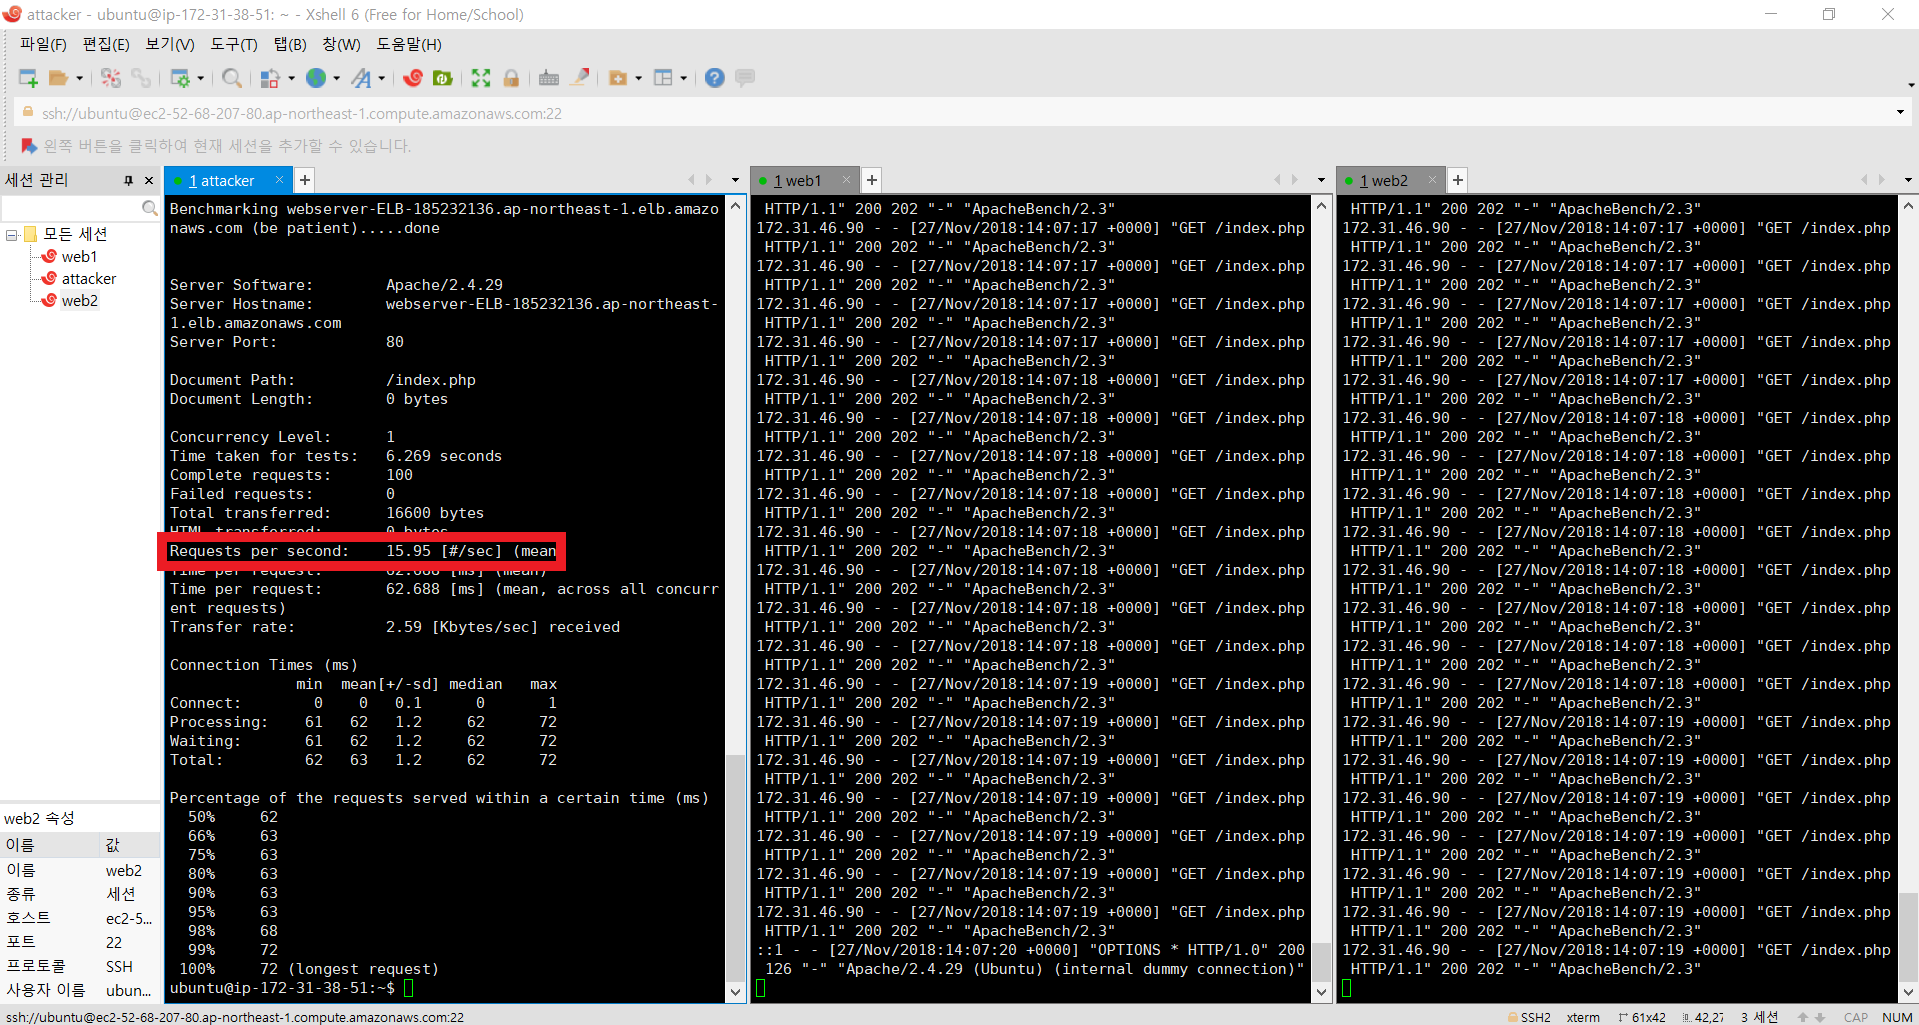
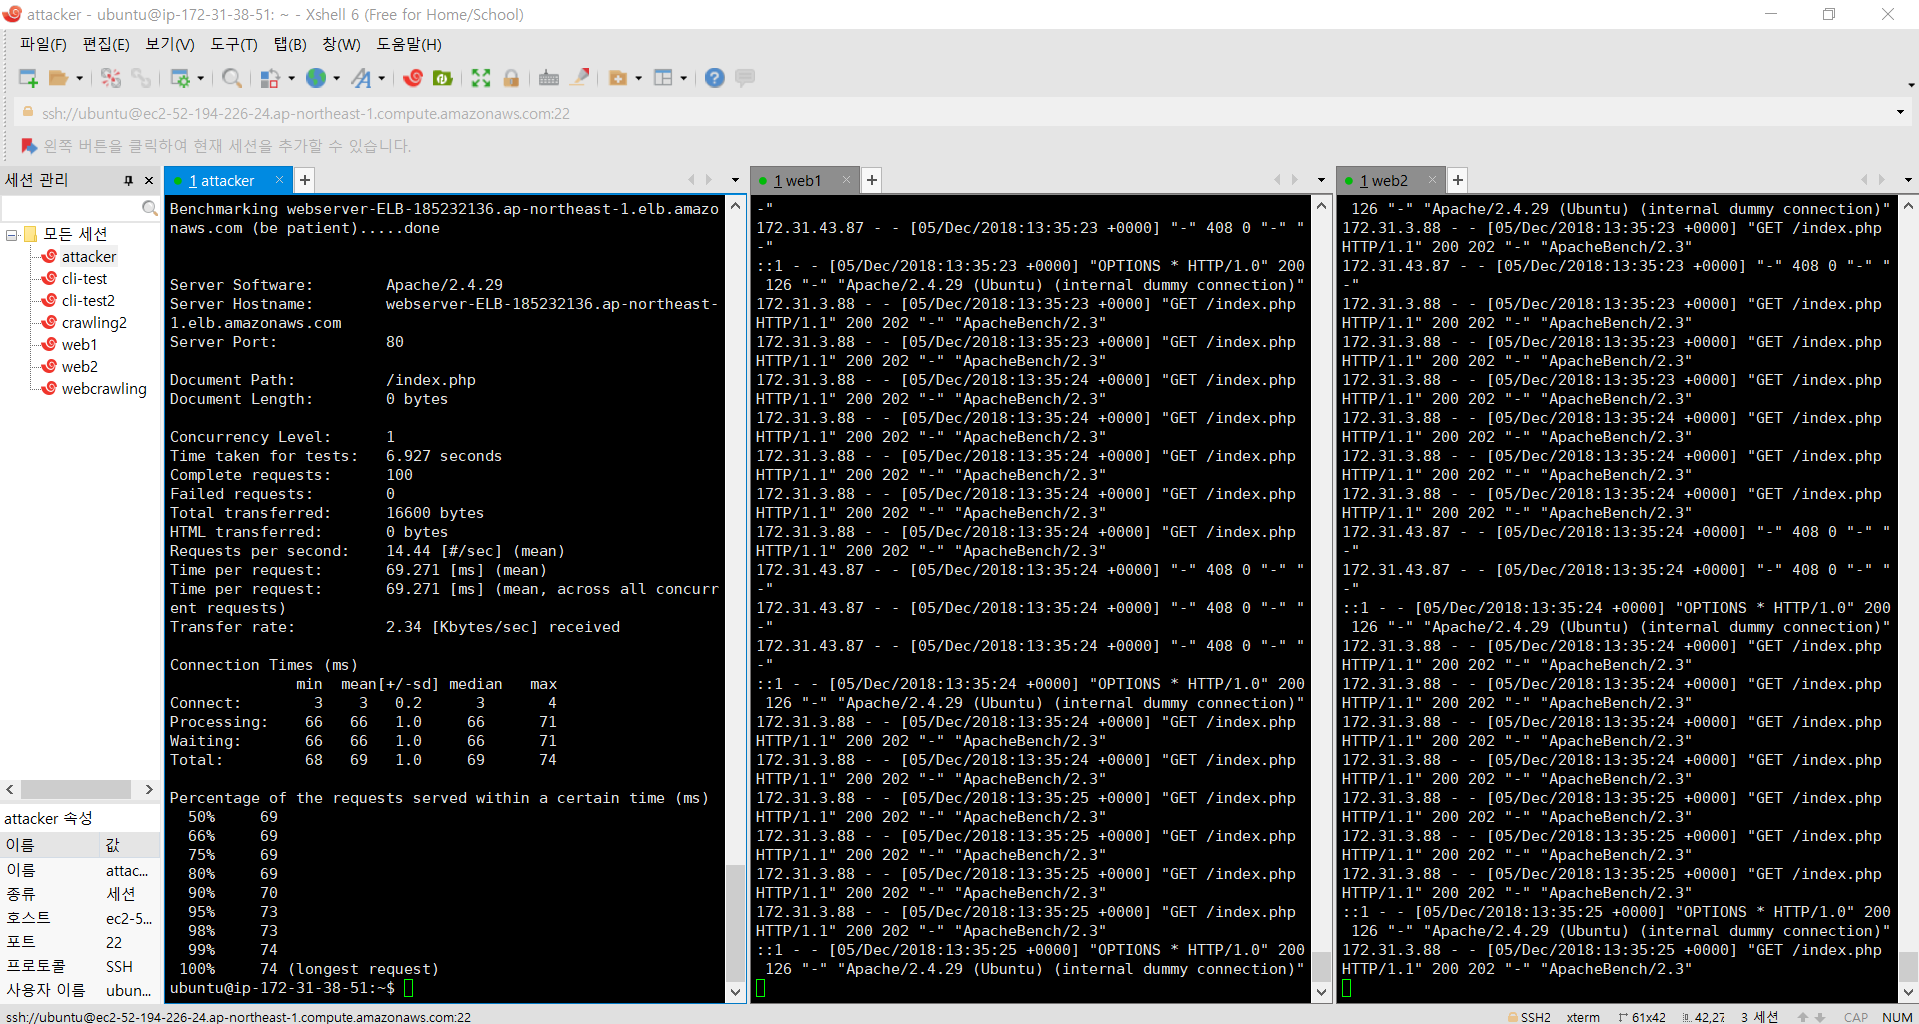
df

diff --git a/hands_on/load_balance_full_understand/step3.md b/hands_on/load_balance_full_understand/step3.md
@@ -95,6 +95,10 @@ Scalue out 이라는 용어는 Web server에서만 한정해서 사용하는 용
 
 ## Load Balancer 만들기
 
+실습 내용:
+
+우선 한개의 web1을 만들어 attack을 해봅시다. 과연 얼마나 느려지는지, 그리고 나서 web2를 만들어 Scale-out 시켜 ELB를 붙여 다시 attack 해봅시다. 이 둘의 차이는 얼마나 날까요?
+
 
 
 1. Ubuntu instance를 2개 만듭니다. (attack, web1)
@@ -151,7 +155,7 @@ Scalue out 이라는 용어는 Web server에서만 한정해서 사용하는 용
 
    - attack $**Ctrl+C**  // 너무 오래 걸리면 이렇게
 
-     > 분석: Time per request를 확인하면 각각 94.374 / 900.764 / 5168.919 ms 가 걸린다. 5000 ms 는 5초이다. 
+     > 분석: Time per request를 확인하면 각각 62.184 /606.798 / 3053.906 ms 가 걸린다. 3000 ms 는 3초이다. 웹페이지를 띄우는데 3초 이상이 걸리면 사용자는 불편함을 느낀다. 
 
 4. web2 를 만들어보자 
 
@@ -188,6 +192,8 @@ Scalue out 이라는 용어는 Web server에서만 한정해서 사용하는 용
    5. **Create a new security grop** 을 클릭하고 name: **elb** 라고 적어주고 Type **HTTP**를 선택해줍니다.
 
       <img src="./image/46.png" width="100%">
+
+      *step4. Configure Health Check는 밑에서 다룰것입니다.*
 
    6. 완성
 
@@ -235,5 +241,26 @@ Scalue out 이라는 용어는 Web server에서만 한정해서 사용하는 용
      <img src="./image/65.png" width="100%">
 
    - 확실히 빠르다. Ctrl+C 가 필요없다.
+
+   > 분석: Time per request를 확인하면 각각 69.271 /303.576 / 1521.300 ms 가 걸린다. 
+
+|               | ELB 전             | ELB 후   |
+| ------------- | ------------------ | -------- |
+| -n 100 -c 1   | 62.184  / 3053.906 | 69.271   |
+| -n 1000 -c 10 | 606.798            | 303.576  |
+| -n 1000 -c 50 | 3053.906           | 1521.300 |
+
+절반이나 줄었다. 
+
+이는 대단한 것이다. instance를 무한대로 늘리면 성능이 무한대로 좋아질까?
+
+생각해보자 
+
+   ## *Step4. Configure Health Checks*
+
+   이부분은 ELB에서 꽤나 중요한 부분입니다. 
+
+   여기서 정해준 규칙에 따라 Scale-out 한 instance의 건강상태를 주기적으로 체크합니다.
+
 
 [STEP4](https://github.com/jominjimail/ausg/blob/master/hands_on/load_balance_full_understand/step4.md)
